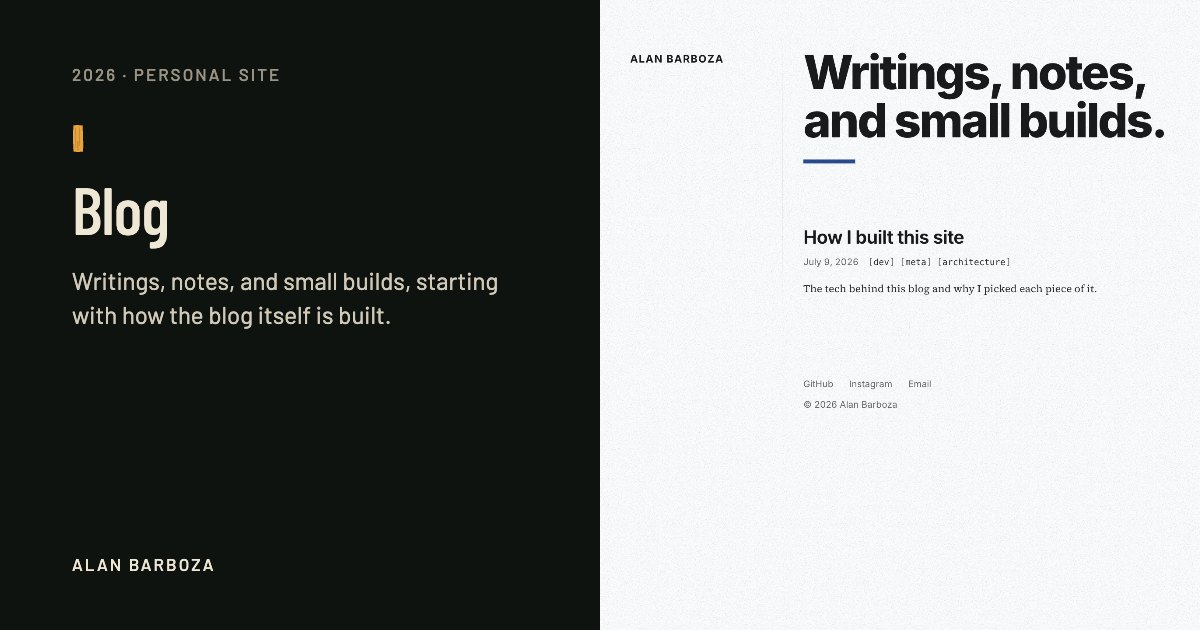
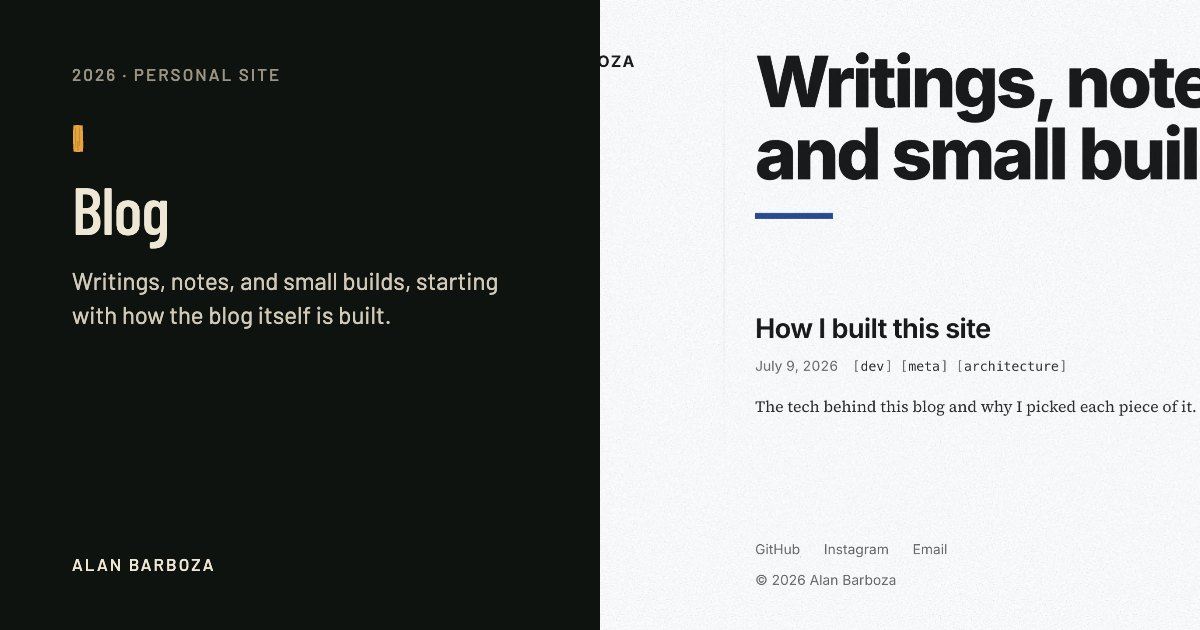
Work in the owner's order, with covers framed on each site
- Blog, WageCheck, Salon Nadia.
- tools/work-covers.mjs shoots each live site at the size that suits it and
  centres a 3:2 frame on its content (WebP by Chrome's own encoder), so the
  blog fills its cover and WageCheck's narrow app is legible. Each cover keeps
  its top when phones crop it wider.
- A case study shows its whole cover at 3:2 (16:9 and 4:3 cut the sites' words
  mid-line), and covers get a hairline edge so a dark one doesn't melt into the
  night. Share cards and screenshot baselines redrawn.

diff --git a/src/content/site.ts b/src/content/site.ts
@@ -150,6 +150,22 @@ export const site = {
     detail: { close: 'Close', role: 'Role', tools: 'Tools', example: 'Example', next: 'Next project' },
     projects: [
       {
+        title: 'Blog',
+        slug: 'blog',
+        year: '2026',
+        kind: 'Personal site',
+        description: 'Writings, notes, and small builds, starting with how the blog itself is built.',
+        links: [{ label: 'Live site', href: 'https://alanbarboza.com/blog' }],
+        image: {
+          src: asset('images/work/blog.webp'),
+          alt: 'The blog\'s front page: "Writings, notes, and small builds." above its first post.',
+          width: 2160,
+          height: 1440,
+          // on phones the list crops it wider: keep the top, where the site's name is
+          focus: { x: 0.5, y: 0.35 },
+        },
+      },
+      {
         title: 'WageCheck',
         slug: 'wagecheck',
         year: '2026',
@@ -162,6 +178,8 @@ export const site = {
           alt: "WageCheck's calculator: a location field, a posted hourly rate and a compliance check.",
           width: 2160,
           height: 1440,
+          // on phones the list crops it wider: keep the top, where the site's name is
+          focus: { x: 0.5, y: 0.2 },
         },
       },
       {
@@ -177,20 +195,8 @@ export const site = {
           alt: "Salon Nadia's home page: \"Quality Hair Care\" over an illustration of a stylist at work.",
           width: 2160,
           height: 1440,
-        },
-      },
-      {
-        title: 'Blog',
-        slug: 'blog',
-        year: '2026',
-        kind: 'Personal site',
-        description: 'Writings, notes, and small builds, starting with how the blog itself is built.',
-        links: [{ label: 'Live site', href: 'https://alanbarboza.com/blog' }],
-        image: {
-          src: asset('images/work/blog.webp'),
-          alt: 'The blog\'s front page: "Writings, notes, and small builds." above its first post.',
-          width: 2160,
-          height: 1440,
+          // on phones the list crops it wider: keep the top, where the site's name is
+          focus: { x: 0.5, y: 0 },
         },
       },
     ] as Project[],

diff --git a/src/styles/sections.css b/src/styles/sections.css
@@ -602,6 +602,9 @@ h2[tabindex='-1']:focus {
   aspect-ratio: 3 / 2;
   border-radius: var(--radius);
   background: var(--forest);
+  /* a hairline edge, so a dark screenshot doesn't melt into the night around it */
+  outline: 1px solid var(--rule);
+  outline-offset: -1px;
   /* keeps the rounded corners clipping the picture while it scales (Safari) */
   isolation: isolate;
 }
@@ -1205,14 +1208,17 @@ html:has(.case-study[open]) {
   font-size: var(--size-lead);
   line-height: 1.45;
 }
+/* the whole cover, at the list's 3:2: a screenshot of a site, cut, loses its words mid-line */
 .cs-image {
   margin-top: var(--space-5);
   width: 100%;
   height: auto;
-  aspect-ratio: 16 / 9;
-  object-fit: cover; /* cut around its focus (case-study.ts) */
+  aspect-ratio: 3 / 2;
+  object-fit: cover; /* a cover of another shape is cut around its focus (case-study.ts) */
   border-radius: var(--radius);
   background: var(--forest);
+  outline: 1px solid var(--rule);
+  outline-offset: -1px;
 }
 /* the write-up beside its facts and links; one column on narrow screens */
 .cs-columns {
@@ -1337,11 +1343,6 @@ html:has(.case-study[open]) {
 @media (max-width: 800px) {
   .cs-columns {
     grid-template-columns: minmax(0, 1fr);
-  }
-}
-@media (max-width: 640px) {
-  .cs-image {
-    aspect-ratio: 4 / 3;
   }
 }
 /* ===================== responsive & motion ===================== */

diff --git a/docs/ASSET-CREDITS.md b/docs/ASSET-CREDITS.md
@@ -28,5 +28,5 @@ Originals live outside the repo; the files here are WebP exports under the 400 K
 - Unsplash / Pexels: free for commercial use, no attribution required (credit anyway)
 - National Park Service and other US government photos: usually public domain; check the caption
 - Wikimedia Commons: check each file's license
-| `public/images/work/wagecheck.webp`, `salon-nadia.webp`, `blog.webp` | Screenshots of the owner's own sites (wagecheck.org, salonnadia.com, alanbarboza.com/blog), 1440×960 at 1.5×, taken in headless Chrome | Site owner | Owner's own work | OK |
+| `public/images/work/wagecheck.webp`, `salon-nadia.webp`, `blog.webp` | Screenshots of the owner's own sites (alanbarboza.com/blog, wagecheck.org, salonnadia.com), framed on their content by `tools/work-covers.mjs` (installed Chrome via Playwright) | Site owner | Owner's own work | OK |
 | `public/images/share/<slug>.jpg` | Link-preview card for each case study (1200×630): the project's year, kind, title and description from `site.ts` in Barlow on `--night` with the blaze, beside a crop of its cover. Drawn by `tools/share-cards.mjs` (HTML photographed by the installed Chrome) | Site owner (derived) | Same as each project's cover; Barlow is OFL 1.1 | OK |
